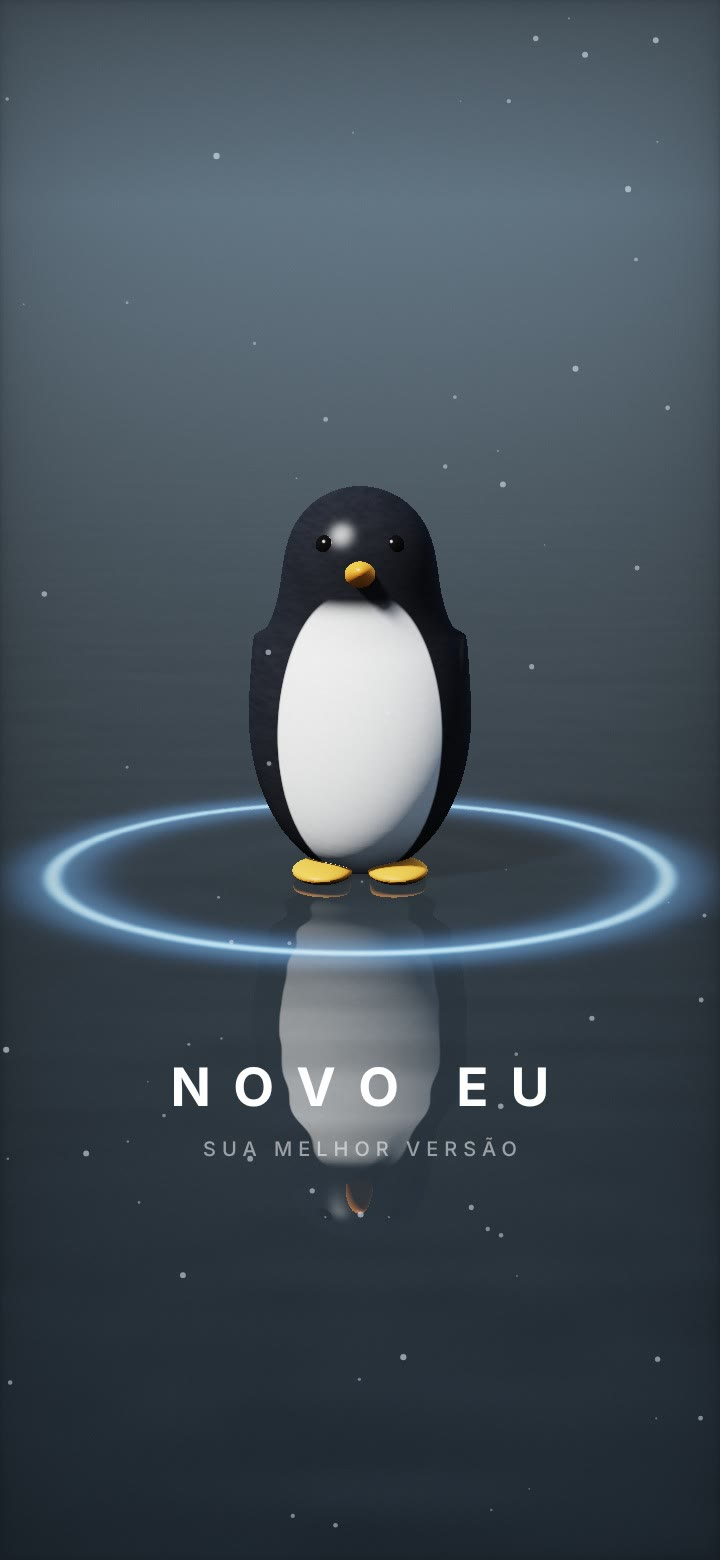
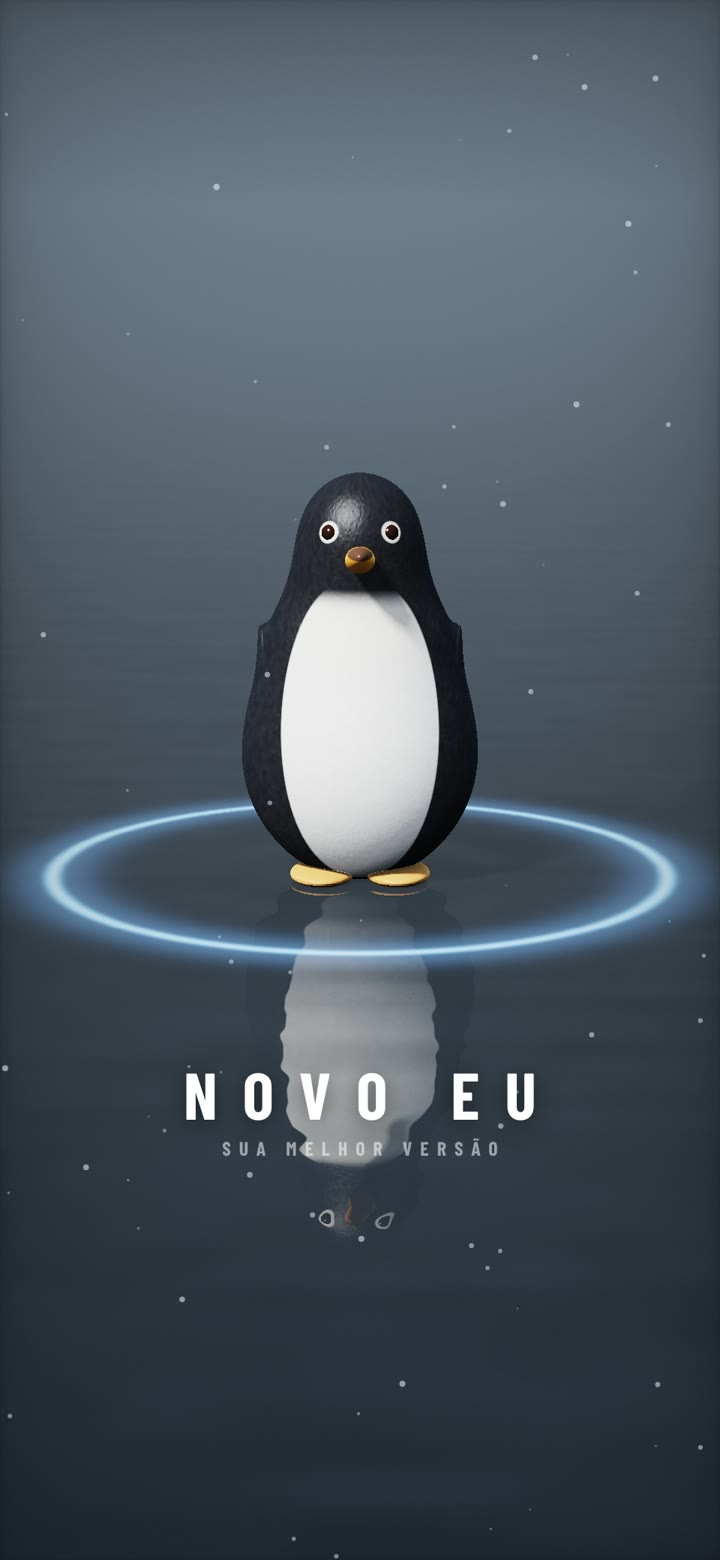
Novo Eu 3.7.5: abertura com pinguim mais realista (penas, olhos, bico), 960x2080 a 30 quadros
Claude-Session: https://claude.ai/code/session_012cjs7EZvSGe8pemFpJnFU6

diff --git a/novo-eu/index.html b/novo-eu/index.html
@@ -6630,7 +6630,7 @@ window.addEventListener('error', function(e){
     var done = false;
     im.onload = function(){ if(done) return; done = true; b.innerHTML = ''; b.appendChild(im); bootT0 = Date.now(); hideBoot(); };
     im.onerror = function(){ done = true; bootT0 = 0; hideBoot(); };
-    setTimeout(function(){ if(!done){ done = true; bootT0 = 0; hideBoot(); } }, 4000);
+    setTimeout(function(){ if(!done){ done = true; bootT0 = 0; hideBoot(); } }, 5000);
     im.src = 'intro.webp';
   }
   function checkWhatsNew(){

diff --git a/novo-eu/sw.js b/novo-eu/sw.js
@@ -1,5 +1,5 @@
 // Novo Eu — service worker: offline + notificações
-const CACHE = 'novo-eu-v15';
+const CACHE = 'novo-eu-v16';
 const CORE = [
   './',
   './index.html',
